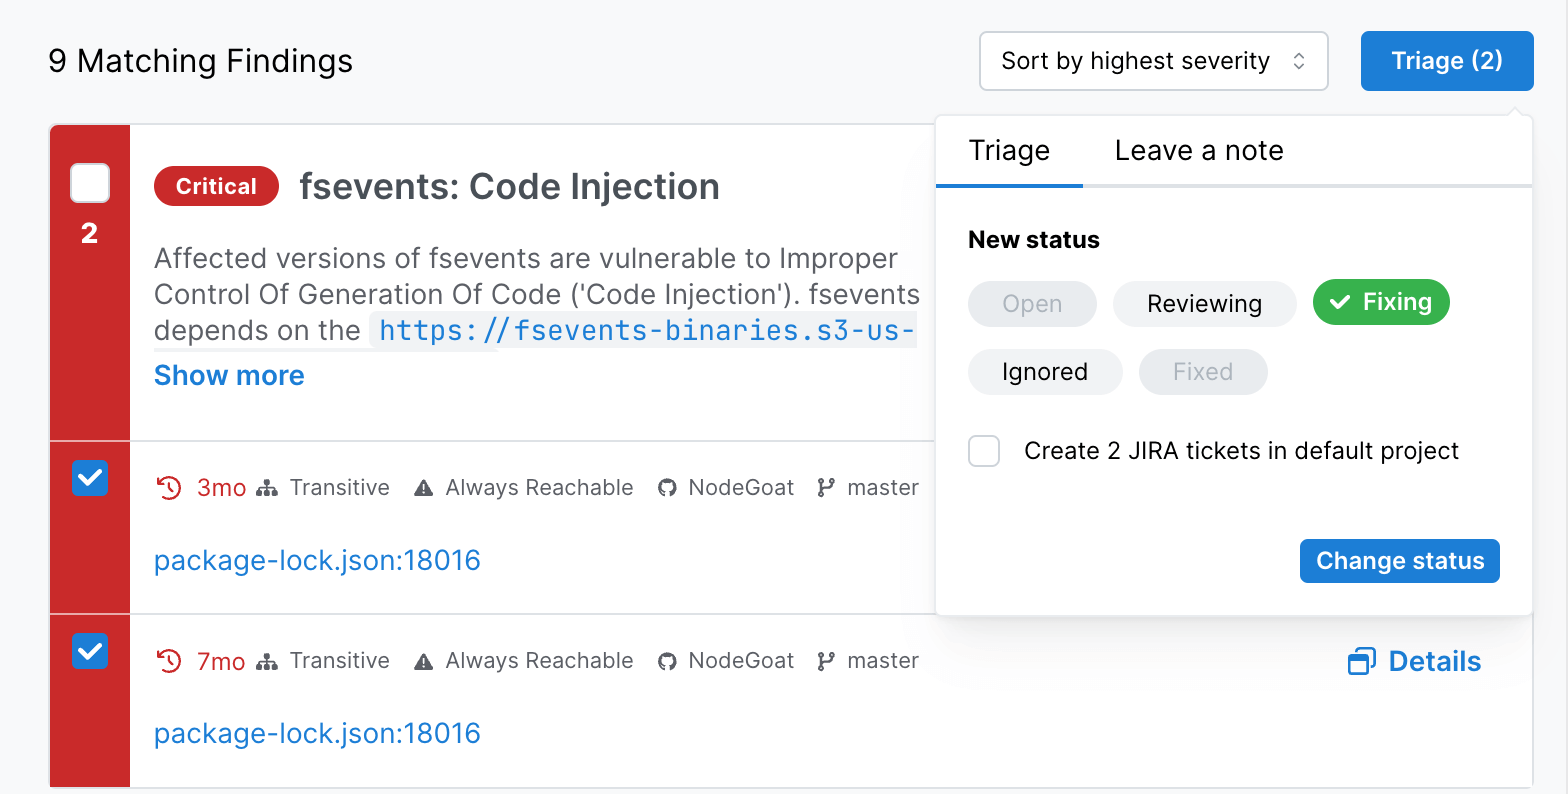
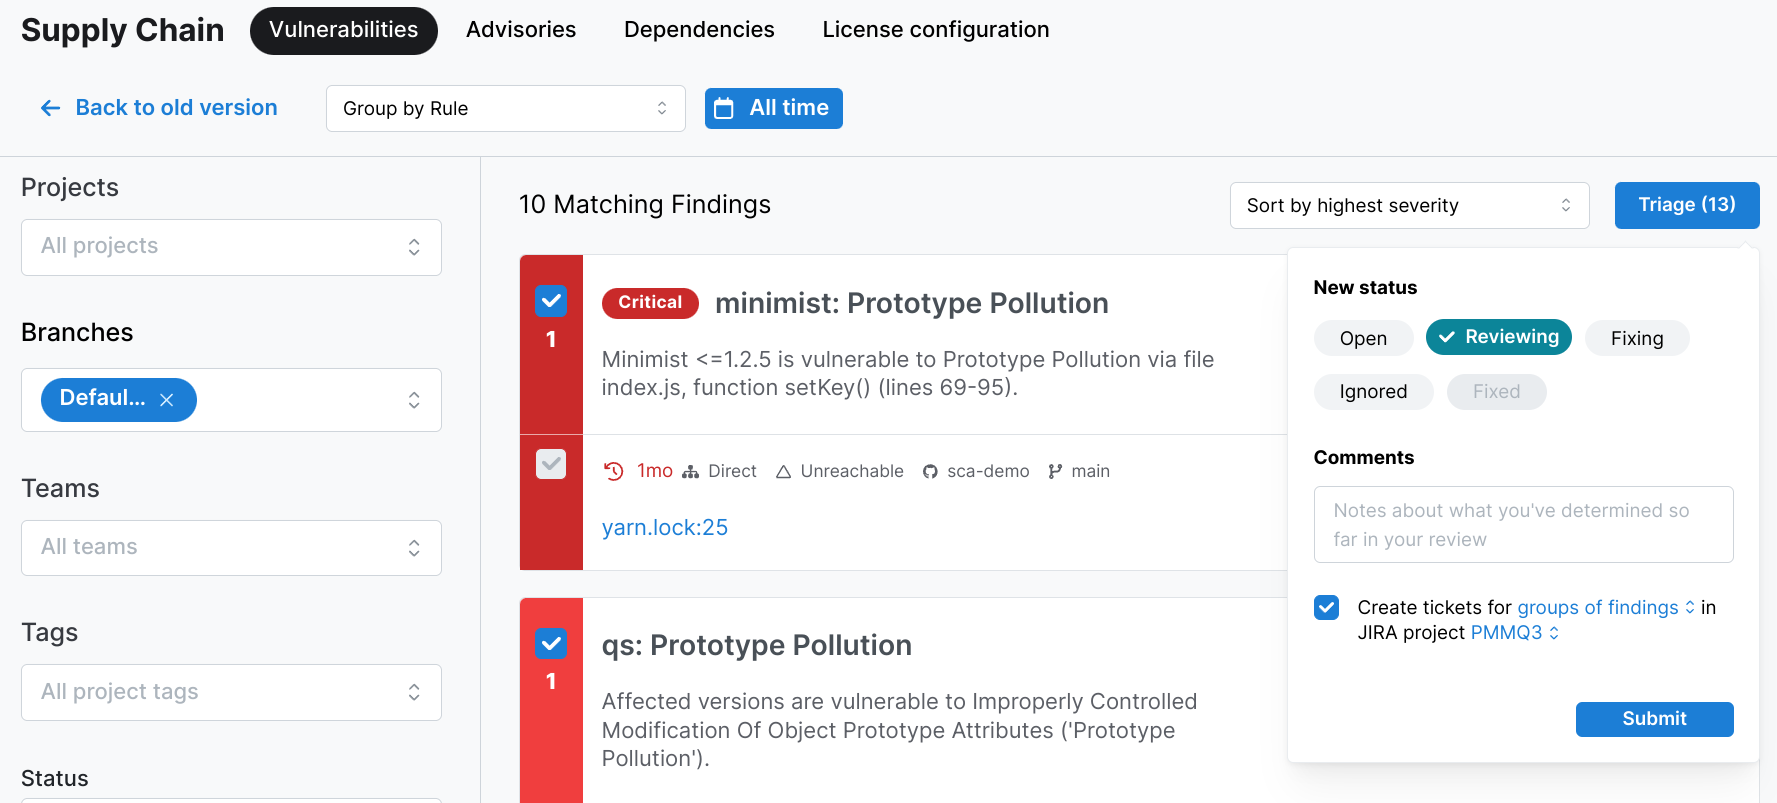
add info re: new triage statuses (#1577)
* add info re: new triage statuses

* update instructions

* formatting for captions + updated screenshots

* add supplemental info on features and project detection

* add limitations

* Update docs/semgrep-appsec-platform/jira.md

* Update docs/semgrep-appsec-platform/jira.md

* Update docs/semgrep-appsec-platform/jira.md

* Update docs/semgrep-appsec-platform/jira.md

* fix findings status definition

* Update docs/semgrep-appsec-platform/jira.md

* Update docs/semgrep-appsec-platform/jira.md

* address review notes and update to new screenshots

* added admonition for jira

* added admonition for jira

* Update docs/semgrep-appsec-platform/jira.md

* final review additions

* consistency in full stops

* company-managed requirement addition

---------

diff --git a/docs/semgrep-appsec-platform/jira.md b/docs/semgrep-appsec-platform/jira.md
@@ -15,10 +15,23 @@ The Semgrep Jira integration allows you to create Jira tickets based on your Sem
 
 ## Prerequisites
 
-* This feature is in a **private beta**. To request access:
-  1. Fill out the [Request access to the Semgrep Jira integration closed beta](https://get.semgrep.dev/Jira-asana-linear-private-beta.html) form.
-  2. Contact your Technical Account Manager or Account Executive and let them know you want to try the Jira integration.
-* You must have a **Jira Cloud** plan. Jira Data Center (self-managed or on-premise) is not supported.
+- The Jira integration is in **public beta** for all existing Semgrep AppSec Platform users.
+- You must have a **Jira Cloud** plan. Jira Data Center (self-managed or on-premise) is not supported.
+- You must have at least one Jira project to set as the default location where tickets will be created.
+
+## Features
+
+The Semgrep Jira integration provides the following capabilities:
+
+- You can create tickets for findings from Semgrep Code, Supply Chain, and Secrets.
+- You can create a single ticket for multiple findings (up to 50) that were detected by a single rule in the same project, or create individual tickets per finding.
+- Tickets can be created in **multiple Jira projects** if manually specified at ticket creation time.
+
+## Limitations
+
+- You can create only **one Jira integration** per Semgrep account or deployment.
+- You can only use **one subdomain** per Jira integration.
+- The Semgrep Jira integration does not support bi-directional or two-way status syncing.
 
 ## Enable the Jira integration
 
@@ -38,11 +51,22 @@ Once you have enabled the Jira integration, you must complete the following step
 1. Select the **Subdomain** for the Jira instance you want to use.
 2. Select the **Default project** where the Jira tickets will be created.
 3. Select the **Issue type** you want created with your Semgrep findings.
-4. If you'd like to see an example of the content Semgrep populates your Jira ticket with, click **See preview**.
+4. Optional: To see an example of the content Semgrep populates your Jira ticket with, click **See preview**.
 5. Click **Save changes** to proceed.
 
 ![Jira configuration screen](/img/jira-subdomain.png#md-width)
-**_Figure._** The Jira configuration screen.
+_**Figure.** The Jira configuration screen._
+
+### Automatic detection of other Jira projects
+
+The Jira integration automatically detects other Jira projects in your subdomain under the following conditions:
+
+- The projects and Issue types are **company-managed**, not team-managed. See the Jira documentation about [<i class="fas fa-external-link fa-xs"></i> Team-managed and company-managed projects](https://support.atlassian.com/jira-software-cloud/docs/what-are-team-managed-and-company-managed-projects/)
+- Those projects have the same **Issue type** as the default project. [When you triage a finding](#code), you can choose which project to create the tickets in.
+
+:::caution Same name, different ID
+Issue types may have the same name, but a different Issue type ID. If you can't view or select other Jira projects when creating tickets, check that your Issue type ID is the same across Jira projects. See the [<i class="fas fa-external-link fa-xs"></i> Jira documentation](https://confluence.atlassian.com/jirasoftwarecloud/finding-the-issue-type-id-in-jira-cloud-1333825937.html) for details.
+:::
 
 ### Create mappings
 
@@ -54,7 +78,7 @@ Optionally, you can customize the Jira field mappings and indicate which Semgrep
 * Checkboxes
 
 ![Jira configuration screen for field data mappings](/img/jira-configure-defaults.png#md-width)
-**_Figure._** The Jira configuration screen for field data mappings.
+_**Figure.** The Jira configuration screen for field data mappings._
 
 > Click **Field mapping help** to see a list of the Semgrep fields available for mapping.
 
@@ -84,10 +108,12 @@ Semgrep's **Severity** field can have the following values: `Low`, `Medium`, `Hi
 
 If you opt for a drop-down or a checkbox issue type field, verify that:
 
-* There are no misspellings
+* There are no misspellings.
 * No valid options are missing. If your drop-down or checkbox issue type is missing the `Medium` option, Jira cannot create tickets for medium-severity findings.
 
 ## Create tickets
+
+After setting up your Jira integration, you're now ready to create Jira tickets. Jira tickets can be created from findings in Semgrep Code, Supply Chain, and Secrets.
 
 ### Code
 
@@ -98,22 +124,29 @@ You can create tickets for Code findings using the **Triage** button on the:
 
 To create tickets:
 
+<!-- vale off-->
 1. If you're on the [**Findings**](https://semgrep.dev/orgs/-/findings) page, select the findings for which you want tickets created; you can select and create tickets for individual findings or all findings for a given rule. Otherwise, proceed to step 2.
-2. Click **Triage**.
-3. Set the status to **Fixing**, and select the **Create <span className="placeholder">NUMBER_OF_TICKETS</span> JIRA tickets in <span className="placeholder">PROJECT_NAME</span>** box that appears.
-4. Click **Change status** to proceed.
+1. Click **Triage**.
+1. Set the status to **Open**, **Fixing**, or **Reviewing**. Select **Fixing** if it is a known issue that needs to be fixed or **Reviewing** if the finding needs more investigation.
+1. Select the **Create tickets...** checkbox.
+    1. Optional: Click the first drop-down list to choose between making a ticket for **groups of findings** or an individual ticket for **each finding**.
+    1. Optional: Click the **JIRA project** drop-down list to select which Jira project to add the findings to.
+1. Optional: You can add **Comments** in the text box.
+1. Click **Submit** to proceed.
+<!-- vale on -->
 
-:::note
-Creating tickets for many findings at once may take some time. Tickets that take longer than 10 seconds to create are shown in Semgrep once you refresh the page.
+:::info
+- Creating tickets for many findings at once may take some time. Tickets that take longer than 10 seconds to create are shown in Semgrep once you refresh the page.
+- If ticket creation **fails**, Semgrep automatically retries several times over the next day to provide robustness against outages and down time in third-party services.
 :::
 
 ![Create Jira ticket - Code](/img/jira-code-findings.png#md-width)
-***Figure.*** Code triage flow
+_**Figure.** Code triage flow._
 
 Once a ticket has been created, a link appears on the **Findings** page and along the top of an individual finding's details page.
 
 ![Jira ticket created - Code](/img/jira-code-ticketed.png#md-width)
-***Figure.*** Code ticket created
+_**Figure.** Code ticket created._
 
 ### Supply Chain
 
@@ -124,31 +157,41 @@ You can create tickets for Supply Chain findings using the **Triage** button on 
 
 To create tickets:
 
+<!-- vale off-->
 1. If you're on the [**Supply Chain > Vulnerabilities**](https://semgrep.dev/orgs/-/supply-chain/vulnerabilities) page, select the findings for which you want tickets created. Otherwise, proceed to step 2.
-2. Click **Triage**.
-3. Set the status to **Fixing**, and select the **Create <span className="placeholder">NUMBER_OF_TICKETS</span> JIRA tickets in <span className="placeholder">PROJECT_NAME</span>** box that appears.
-4. Click **Change status** to proceed.
+1. Click **Triage**.
+1. Set the status to **Open**, **Fixing**, or **Reviewing**. Select **Fixing** if it is a known issue that needs to be fixed or **Reviewing** if the finding needs more investigation.
+1. Select the **Create tickets...** checkbox.
+    1. Optional: Click the first drop-down list to choose between making a ticket for **groups of findings** or an individual ticket for **each finding**.
+    1. Optional: Click the **JIRA project** drop-down list to select which Jira project to add the findings to.
+1. Optional: You can add **Comments** in the text box.
+1. Click **Submit** to proceed.
+<!-- vale on -->
 
 ![Create Jira ticket - Supply Chain](/img/jira-ssc-findings.png#md-width)
-***Figure*.** Supply Chain triage flow
+_**Figure.** Supply Chain triage flow._
 
 ![Jira ticket created - Supply Chain](/img/jira-ssc-ticketed.png#md-width)
-***Figure*.** Supply Chain ticket created
+_**Figure.** Supply Chain ticket created._
 
 ### Secrets
 
 To create tickets:
 
+<!-- vale off -->
+
 1. Select one or more findings listed in Secrets.
 2. Click **Triage**.
 3. Select **Create <span className="placeholder">NUMBER_OF_TICKETS</span> JIRA tickets**.
-4. Click **Continue** to proceed.
+4. Click **Creat ticket** to proceed.
+
+<!-- vale on -->
 
 ![Create a Jira ticket for a Semgrep Secrets finding](/img/secrets-jira.png#md-width)
-***Figure*.** Secrets triage flow
+_**Figure.** Secrets triage flow._
 
 ![Jira ticket created - Semgrep Secrets](/img/jira-secrets-ticketed.png#md-width)
-***Figure*.** Secrets ticket created
+_**Figure.** Secrets ticket created._
 
 ## Remove the Jira integration
 

diff --git a/docs/semgrep-supply-chain/triage-remediation.md b/docs/semgrep-supply-chain/triage-remediation.md
@@ -89,7 +89,7 @@ Use filters to narrow down your results. The following criteria are available fo
 | **Branch**             | Filter by findings in different Git branches. |
 | **Teams**              | Filter for findings in projects to which the specified teams are associated with. Available only to organizations with [Teams](/deployment/teams#teams-beta) enabled. |
 | **Tags**               | Filter for findings based on the tags associated with the project. |
-| **Status**             | Filter the triage state of a finding: <ul><li>**New**: Vulnerabilities that have not undertaken triage or remediation action.</li><li>**Fixed**: Vulnerabilities that are no longer detected after a scan. This typically means that the dependency containing the vulnerability has been updated. Semgrep Supply Chain automatically checks if the dependency has been updated and sets the vulnerability's status as Fixed.</li><li>**Ignored**: Vulnerabilities that have been triaged as ignored by the user. </li></ul>|
+| **Status**             | Filter the triage state of a finding: <ul><li>**Open**: Findings for which there have been no triage or remediation action.</li><li>**Reviewing**: Findings that require more investigation to determine what the next steps should be.</li><li>**Fixing**: Findings for which you have decided to fix. Commonly used to indicate that these findings are tracked in Jira or assigned to developers for further work.</li><li>**Fixed**: Vulnerabilities that are no longer detected after a scan. This typically means that the dependency containing the vulnerability has been updated. Semgrep Supply Chain automatically checks if the dependency has been updated and sets the vulnerability's status as **Fixed**.</li><li>**Ignored**: Vulnerabilities that have been triaged as **Ignored** by the user. </li></ul>|
 | **Severity**           | Filter by the severity of a finding. Filters are based on the severity of a vulnerability. Semgrep Supply Chain rules use severity values set by the GitHub Advisory Database.  |
 | **Transitivity**       | Filter by the transitivity of the finding. <ul><li>**Direct**: Your project depends directly on the dependency.</li><li>**Transitive**: Your project's dependency depends on a vulnerable dependency.</li><li>**Undetermined**: Semgrep had no transitivity information for the dependency as it relates to your project.</li></ul> |
 | **Reachability**       | Filter by exposure, or whether the finding is reachable or not. <ul><li>**Reachable**: A finding is reachable if there's a code pattern in the codebase that matches the vulnerability definition</li><li>**Always reachable**: A finding is always reachable if it's something Semgrep recommends fixing, regardless of what's in the code.</li><li>**Conditionally reachable**: A finding is conditionally reachable if Semgrep finds a way to reach it when scanning your code when certain conditions are met.</li><li>**Unreachable**: A finding is unreachable if you don't use the vulnerable piece of code of the imported library or package.</li><li>**Undetermined**: A finding is undetermined if Semgrep Supply Chain determines that you use a vulnerable version of a dependency, but it doesn't have a relevant reachability rule.</li></ul>|

diff --git a/docs/semgrep-ci/findings-ci.md b/docs/semgrep-ci/findings-ci.md
@@ -29,9 +29,10 @@ These states correspond to:
 Semgrep AppSec Platform builds on CI findings to track status and provide additional context for managing findings within your organization. A finding can be one of four statuses in Semgrep AppSec Platform:
 
 * `OPEN`
+* `REVIEWING`
+* `FIXING`
 * `IGNORED`
 * `FIXED`
-* `REMOVED`
 
 ### Finding status
 
